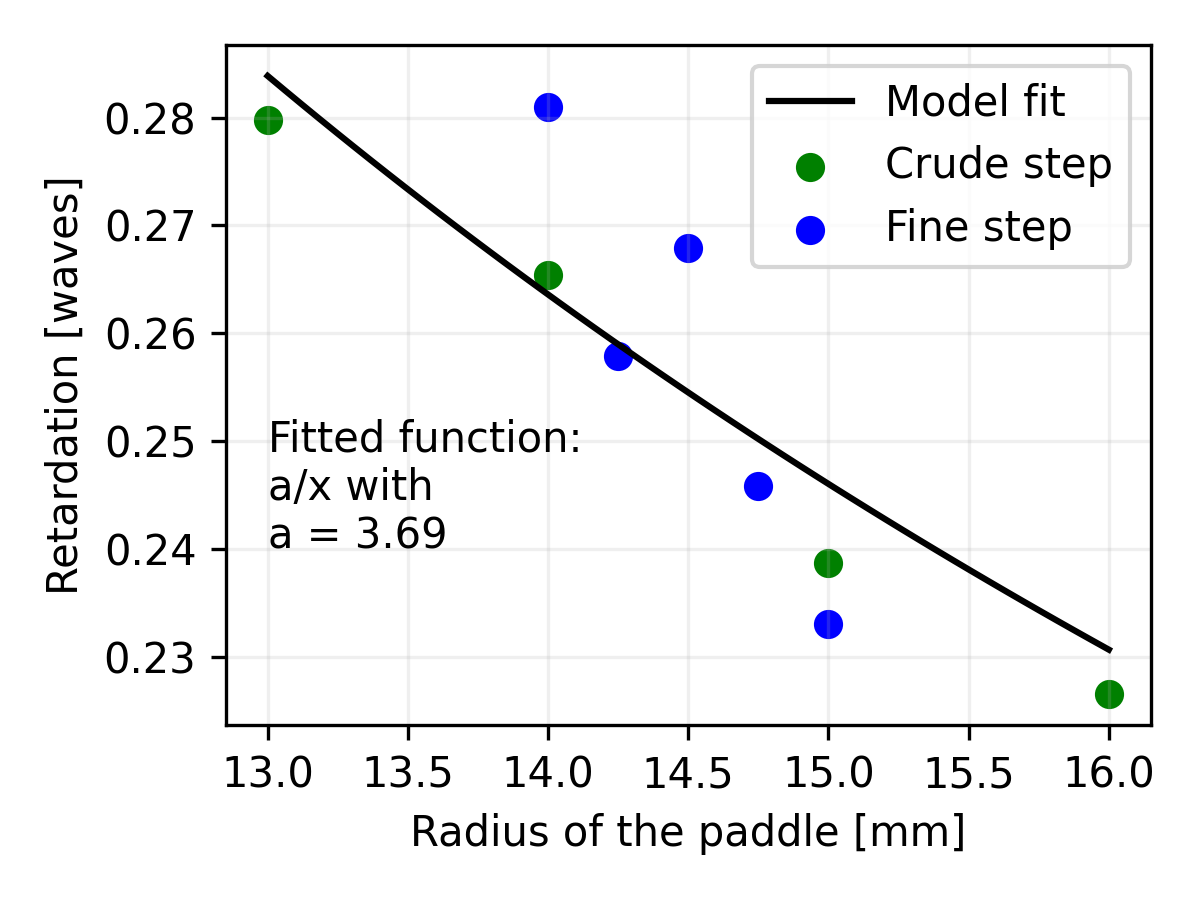
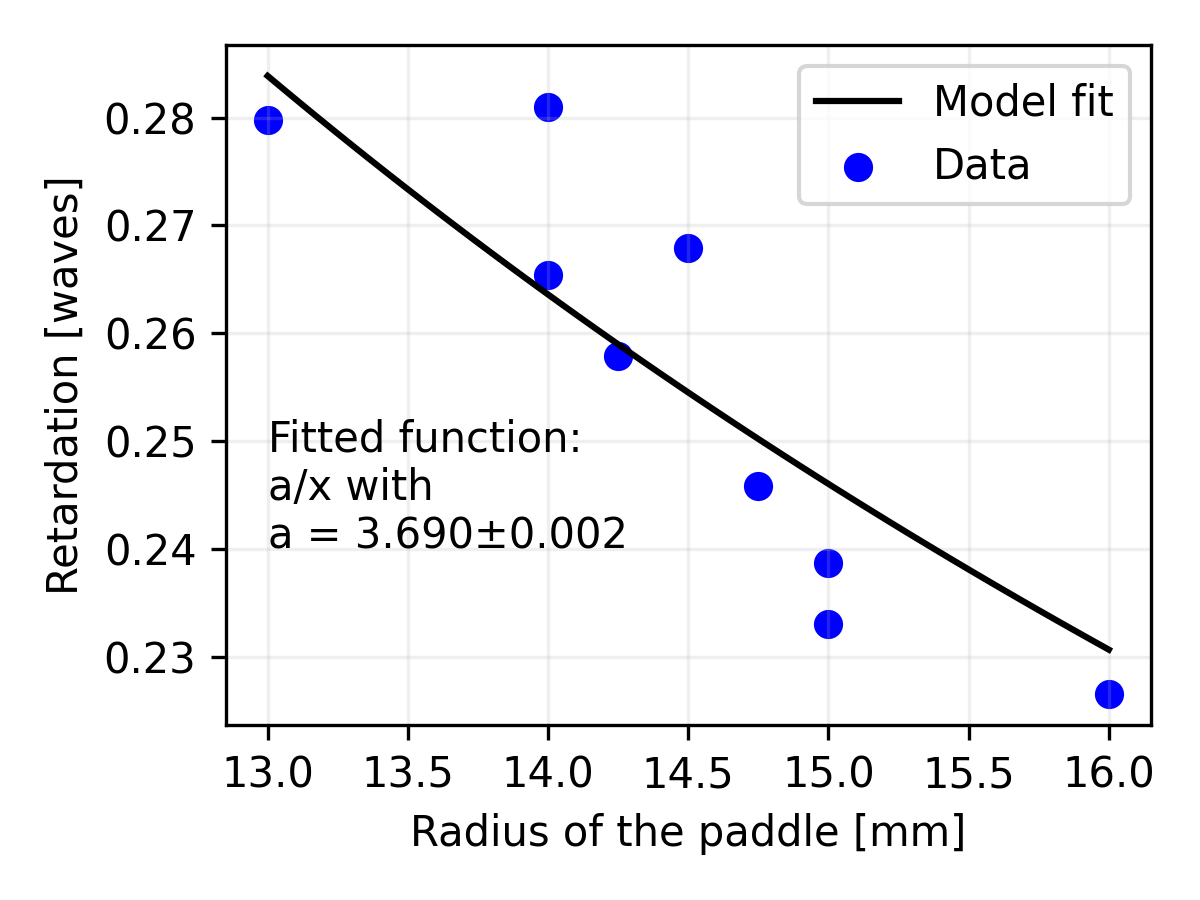
small changes

diff --git a/get_retardation.py b/get_retardation.py
@@ -70,7 +70,7 @@ def get_retardation(data):
 
     retardation = np.arcsin(distance_between_extrema / 2) / (2 * np.pi)
     print("Retardation: {:.4f} or {:.4f} wave".format(retardation, 0.5 - retardation))
-    return probable_cross_pts[0], extrema_args[0], extrema_args[1]
+    return retardation, probable_cross_pts[0], extrema_args[0], extrema_args[1]
 
 
 def stokes_from_power(data):
@@ -80,47 +80,14 @@ def stokes_from_power(data):
     stokes[:, 2] = -(data[:, 5] - data[:, 4]) / (data[:, 5] + data[:, 4])
     return stokes
 
-# data = np.genfromtxt("test_data/qwp.tsv")
-# get_retardation(data)
-def temp(r):
-    filename = "../output/2020-09-08/measurements/{}mm/qwpPowers1.tsv".format(r)
-    powers = np.genfromtxt(filename)
-    data = stokes_from_power(powers)
-    print("Radius: {} mm".format(r))
-    get_retardation(data)
-
-def temp2(r):
-    filename = "../output/old_stokes/{} mm/qwp1.tsv".format(r)
-    powers = np.genfromtxt(filename)
-    data = stokes_from_power(powers)
-    print("Radius: {} mm".format(r))
-    get_retardation(data)
-
-print("Older results:")
-temp2(13)
-temp2(14)
-print("Newer results:")
-temp(14)
-temp(14.25)
-temp(14.5)
-temp(14.75)
-temp(15)
-print("Older results:")
-temp2(15)
-temp2(16)
-
-
 def fit_func(x: np.ndarray, a):
     return a / x
 
-def make_plot():
-    old_results = np.array([[13, 0.2798], [14, 0.2654], [15, 0.2387], [16, 0.2265]])
-    new_results = np.array([[14, 0.2810], [14.25, 0.2579], [14.5, 0.2679], [14.75, 0.2458], [15, 0.2330]])
-    all_results = np.append(old_results, new_results, axis=0)
-    all_results = all_results[np.argsort(all_results[:, 0]).reshape(1, all_results.shape[0])]
+def make_plot(data):
+    data = data[np.argsort(data[:, 0]).reshape(1, data.shape[0])]
 
-    radii = all_results[0, :, 0]
-    retardation = all_results[0:, :, 1][0]
+    radii = data[0, :, 0]
+    retardation = data[0:, :, 1][0]
 
     popt, pcov = curve_fit(fit_func, radii, retardation, p0=[4])
     radii_lin = np.linspace(radii.min(), radii.max(), 50)
@@ -129,14 +96,35 @@ def make_plot():
     plt.figure(figsize=(4,3), dpi=300)
     plt.grid(alpha=0.2)
     plt.plot(radii_lin, retardation_lin, c="k", label="Model fit")
-    plt.scatter(old_results[:, 0], old_results[:, 1], c="g", label="Crude step")
-    plt.scatter(new_results[:, 0], new_results[:, 1], c="b", label="Fine step")
+    plt.scatter(radii, retardation, c="b", label="Data")
+    # plt.scatter(new_results[:, 0], new_results[:, 1], c="b", label="Fine step")
     plt.legend()
     plt.xlabel("Radius of the paddle [mm]")
     plt.ylabel("Retardation [waves]")
-    plt.text(13, 0.24, "Fitted function:\na/x with \na = {:.2f}".format(*popt))
+    plt.text(13, 0.24, "Fitted function:\na/x with \na = {:.3f}\u00B1{:.3f}".format(*popt, *pcov[0]))
     plt.tight_layout()
     plt.savefig("retardation.png", dpi=300)
-    print(popt)
 
-make_plot()
+old_results = np.array([[13, 0.2798], [14, 0.2654], [15, 0.2387], [16, 0.2265]])
+new_results = np.array([[14, 0.2810], [14.25, 0.2579], [14.5, 0.2679], [14.75, 0.2458], [15, 0.2330]])
+
+all_results = np.append(old_results, new_results, axis=0)
+make_plot(all_results)
+
+def temp(r):
+    filename = "../output/2020-09-08/measurements/{}mm/qwpPowers1.tsv".format(r)
+    powers = np.genfromtxt(filename)
+    data = stokes_from_power(powers)
+    print("Radius: {} mm".format(r))
+    return r, get_retardation(data)[0]
+
+def temp2(r):
+    filename = "../output/old_stokes/{} mm/qwp1.tsv".format(r)
+    powers = np.genfromtxt(filename)
+    data = stokes_from_power(powers)
+    print("Radius: {} mm".format(r))
+    return r, get_retardation(data)[0]
+    
+data = np.array([temp2(13), temp2(14), temp(14), temp(14.25), temp(14.5), temp(14.75),
+temp(15), temp2(15), temp2(16)])
+# make_plot(data)
